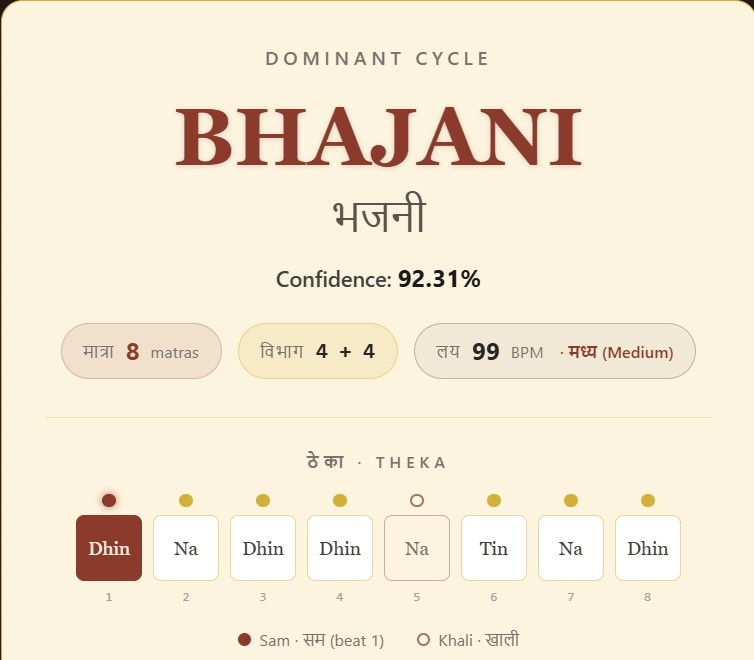
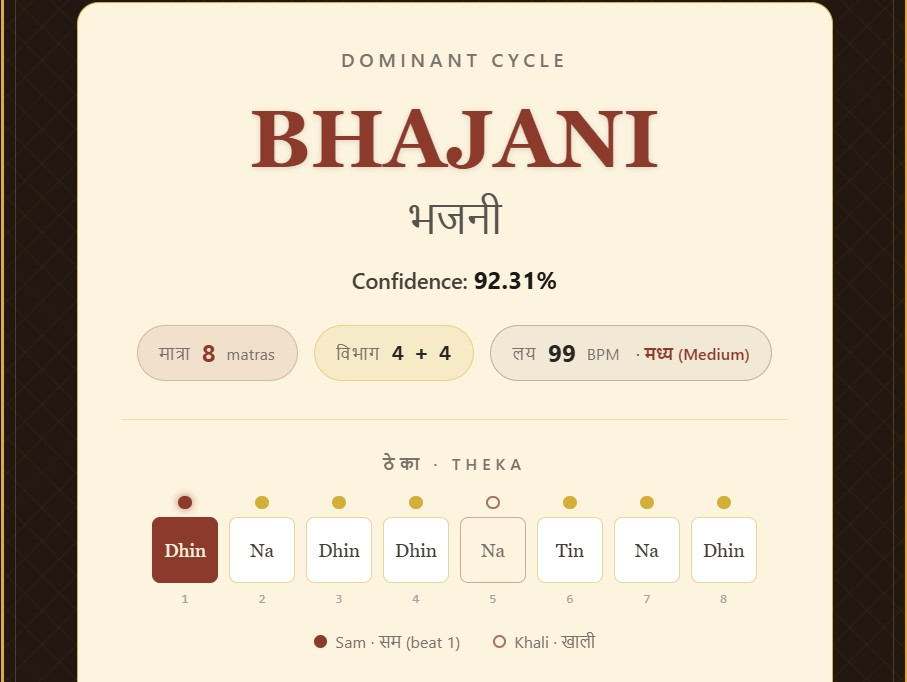
Finished Poster

Changed region(s): [[0.0, 0.0, 1.0, 1.0], [0.244, 0.1515, 0.7626, 0.3636], [0.366, 0.0606, 0.6406, 0.1212]]

diff --git a/Poster.html b/Poster.html
@@ -69,6 +69,10 @@
             font-weight: 600;
         }
 
+        .interface-panel {
+            padding: 28px !important;
+        }
+
         .box {
             background: white;
             border-radius: 35px;
@@ -144,6 +148,24 @@
             display: block;
         }
 
+        /* Bhajani: full card, natural aspect — overrides width:100% above */
+        .poster-img-fit.bhajani-full {
+            text-align: center;
+        }
+        .poster-img-fit.bhajani-full img {
+            width: auto;
+            max-width: 100%;
+            max-height: 630px;
+            height: auto;
+            object-fit: contain;
+            display: block;
+            margin: 0 auto;
+        }
+
+        .poster-img-fit.spectrogram-offset {
+            margin-top: 68px;
+        }
+
         /* Metric Styles */
         .metric-container {
             background: #FDF8F0;
@@ -206,22 +228,22 @@
             </section>
 
             <section class="flex flex-col h-full min-h-0">
-                <div class="box border-[12px] border-gold bg-cream flex flex-col h-full mb-0 min-h-0">
-                    <h3 class="font-serif font-bold text-walnut text-center" style="border: none !important; padding: 0 !important; margin-bottom: 25px !important;">The Application Interface</h3>
+                <div class="box interface-panel border-[12px] border-gold bg-cream flex flex-col h-full mb-0 min-h-0">
+                    <h3 class="font-serif font-bold text-walnut text-center" style="border: none !important; padding: 0 !important; margin-bottom: 12px !important;">The Application Interface</h3>
                     
-                    <div class="poster-img-fit mb-4">
+                    <div class="poster-img-fit mb-2">
                         <img src="UI/Taal%20AI.jpg" alt="Taal AI landing page hero: 'Decoding the Ancient Beat' with Enter The Studio CTA" />
                     </div>
-                    <p class="interface-caption text-center mb-6 leading-tight shrink-0" style="font-size: 34px !important;"><strong>Bridging Hindustani Aesthetics and Deep Learning:</strong> a culturally-grounded landing page funnels users into the CNN-powered analysis engine.</p>
+                    <p class="interface-caption text-center mb-3 leading-tight shrink-0" style="font-size: 32px !important; margin-bottom: 12px !important;"><strong>Bridging Hindustani Aesthetics and Deep Learning:</strong> a culturally-grounded landing page funnels users into the CNN-powered analysis engine.</p>
 
-                    <div class="poster-img mb-6 flex-[1.2]" style="min-height: 200px;">
-                        <img src="UI/Output%20Card.jpg" alt="Classification result card showing BHAJANI prediction, matras, vibhag, BPM, theka grid, and color-coded rhythmic timeline" />
+                    <div class="poster-img-fit bhajani-full mb-2">
+                        <img src="UI/Bhajani.jpg" alt="Bhajani classification result: 92.31% confidence, 8 matras, theka grid with Sam and Khali beats" />
                     </div>
 
-                    <div class="poster-img-fit mb-4">
+                    <div class="poster-img-fit spectrogram-offset mb-2">
                         <img src="UI/Spectrogram.jpg" alt="Waveform on top, Mel spectrogram on bottom — the What the AI Sees view" />
                     </div>
-                    <p class="interface-caption text-center mt-2 mb-0 leading-tight shrink-0" style="font-size: 34px !important;">Translating complex tensor arrays into a visually digestible user interface.</p>
+                    <p class="interface-caption text-center mt-0 mb-0 leading-tight shrink-0" style="font-size: 32px !important;">Translating complex tensor arrays into a visually digestible user interface.</p>
                 </div>
             </section>
 
